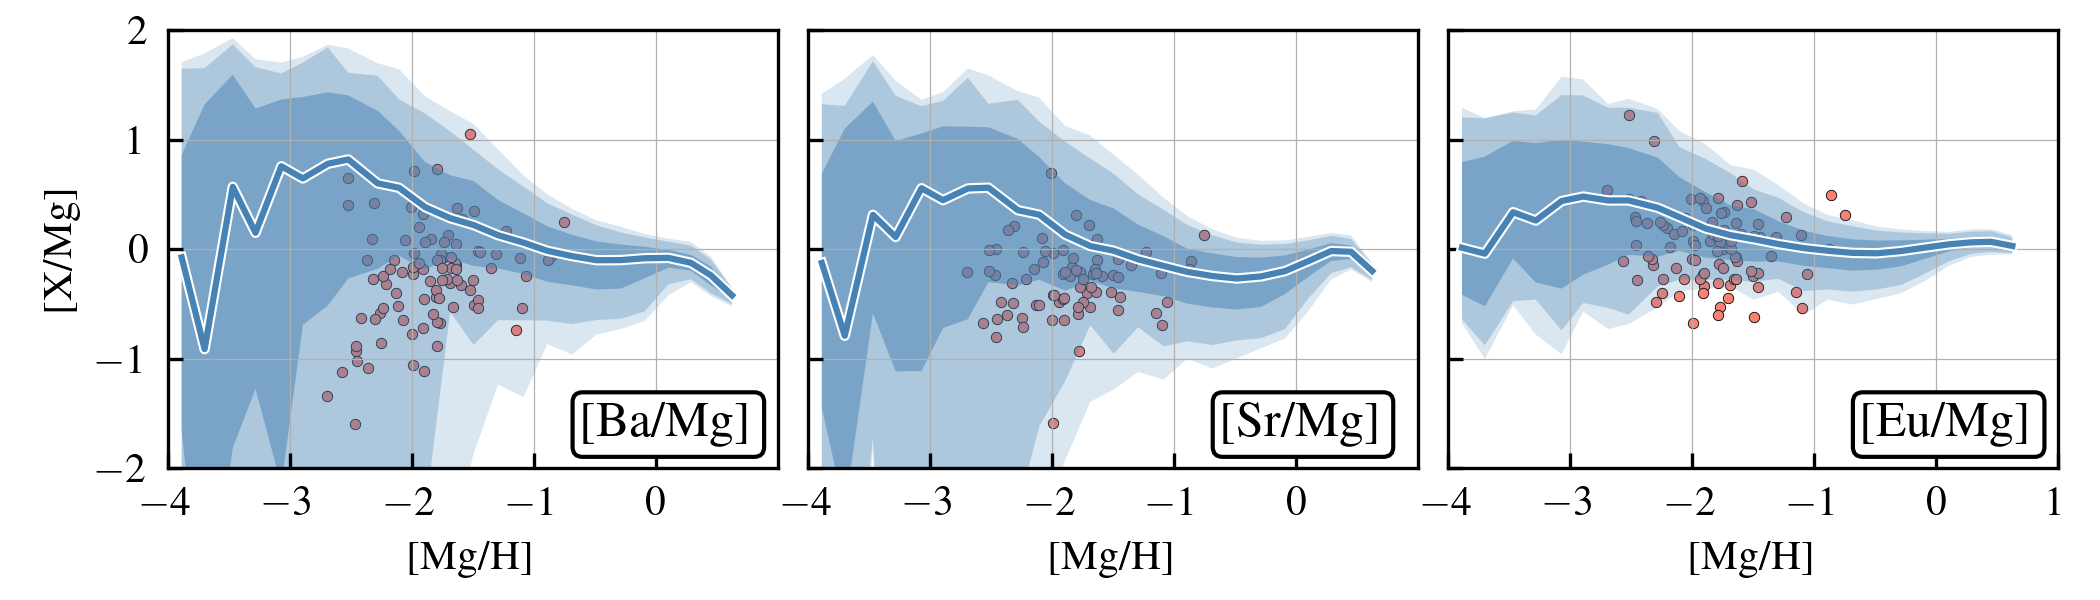
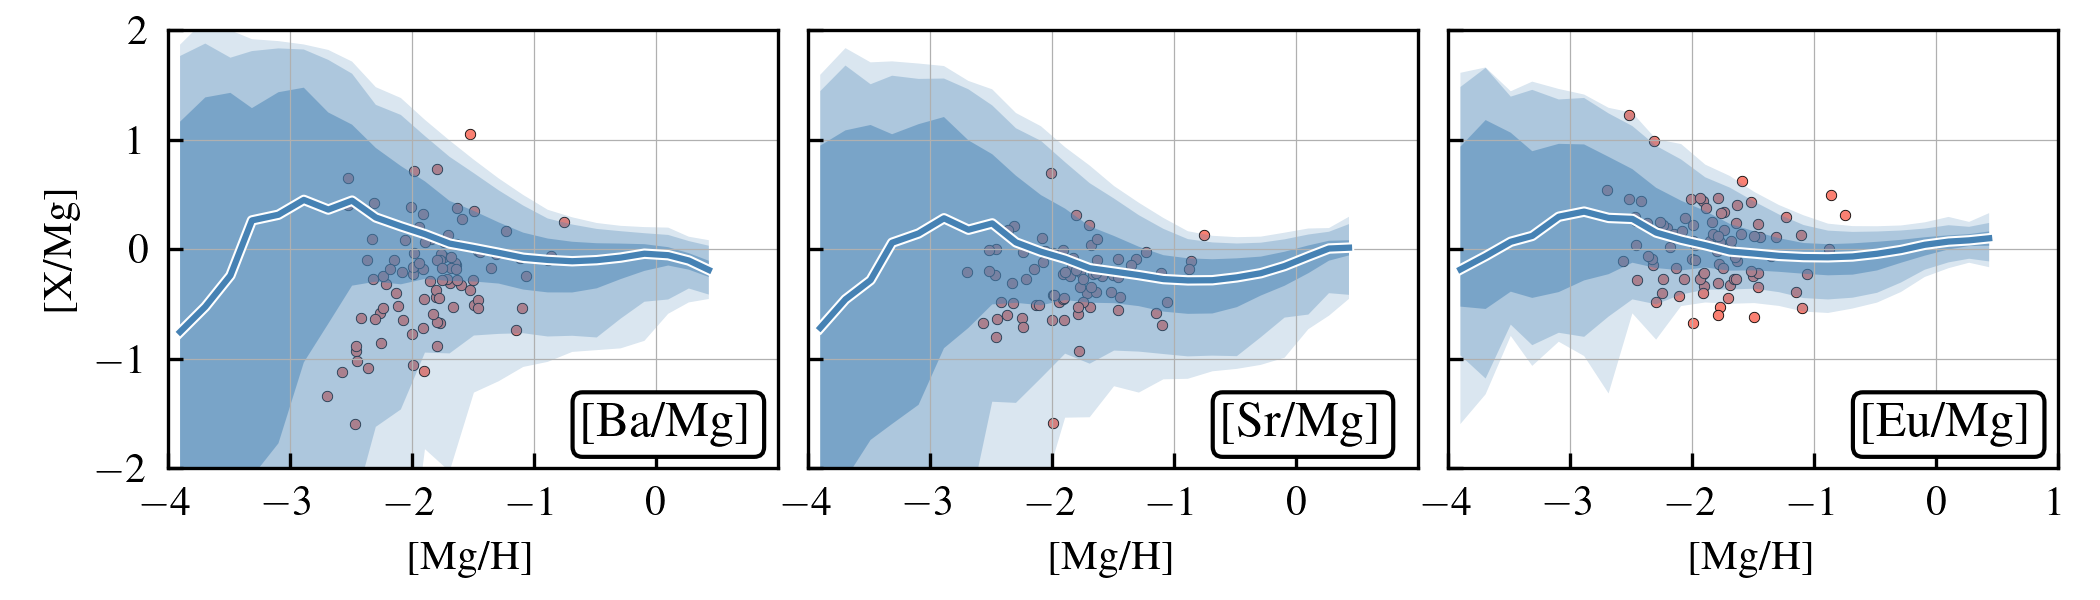
Minor changes, testing pie charts plot

diff --git a/COLIBREPlots/colibre_plots.py b/COLIBREPlots/colibre_plots.py
@@ -3,7 +3,7 @@ Welcome to COLIBRE PLOTS python package, just a plotting pipeline for the COLIBR
 """
 
 from argumentparser import ArgumentParser
-#from plotter.abundance_ratios import plot_abundance_ratios_comparison, plot_abundance_ratios_single_run
+from plotter.abundance_ratios import plot_abundance_ratios_comparison, plot_abundance_ratios_single_run
 from plotter.scatter_analysis_satellites import plot_scatter_of_MW_satellites
 # from plotter.scatter_analysis_MW import plot_scatter_MW_with_radius, plot_stellar_distribution
 # from plotter.scatter_analysis_MW import plot_APOGEE, plot_abundance_ratio_MgFe
@@ -11,7 +11,7 @@ from analysis.post_processing_MW_abundances import make_post_processing_MW
 #from analysis.post_processing_MW_abundances import make_post_processing_MW_gas_abundances
 from analysis.post_processing_satellite_abundances import make_post_processing_satellites
 #from analysis.post_processing_pie_charts import make_post_processing_MW_for_abundance_contribution
-#from plotter.pie_charts import plot_pie_charts
+from plotter.pie_charts import plot_pie_charts
 #from plotter.gas_abundance import plot_gas_abundance_gradient
 from analysis.post_processing_mass_metallicity_relation import make_post_processing_galaxies_metallicities
 from plotter.mass_metallicity_relation import plot_mass_metallicity_relation
@@ -23,10 +23,8 @@ if __name__ == "__main__":
     # plot_gas_abundance_gradient(config_parameters)
 
     # plot_abundance_ratio_MgFe(config_parameters)
-    # make_post_processing_MW(config_parameters)
     # make_post_processing_satellites(config_parameters)
 
-    # plot_abundance_ratios_single_run(config_parameters)
     # plot_abundance_ratios_comparison(config_parameters)
     # plot_abundance_ratio_MgFe(config_parameters)
     # plot_scatter_of_MW_satellites(config_parameters)
@@ -34,8 +32,11 @@ if __name__ == "__main__":
     # plot_stellar_distribution(config_parameters)
     # plot_APOGEE()
 
+    # Let's make Fig. 2 of draft
+    # make_post_processing_MW(config_parameters)
     # make_post_processing_MW_for_abundance_contribution(config_parameters)
-    # plot_pie_charts(config_parameters)
+    plot_pie_charts(config_parameters)
+    # plot_abundance_ratios_single_run(config_parameters)
 
-    make_post_processing_galaxies_metallicities(config_parameters)
-    plot_mass_metallicity_relation(config_parameters)
+    # make_post_processing_galaxies_metallicities(config_parameters)
+    # plot_mass_metallicity_relation(config_parameters)

diff --git a/COLIBREPlots/plotter/pie_charts.py b/COLIBREPlots/plotter/pie_charts.py
@@ -3,7 +3,7 @@ from matplotlib.pylab import rcParams
 import numpy as np
 import h5py
 from simulation.simulation_data import read_simulation
-
+from simulation.utilities import constants
 
 def read_galactic_abundances(sim_info):
 
@@ -54,24 +54,40 @@ def read_galactic_abundances(sim_info):
 
 def plot_pie(ax, element, data):
 
+    print(element)
+
+    low_limit = 1e-8
     HaloIndx = data["HaloIndex"]
     mass_AGB = data[element+"_AGB"]
     mass_SNII = data[element+"_SNII"]
     mass_SNIa = data[element+"_SNIa"]
     total_mass = data[element]
+    mass_Fe = data["Fe"]
+    mass_H = data["H"]
 
-    # unique_HaloIndx = np.unique(HaloIndx)
-    # num_sample = len(unique_HaloIndx)
-    #
-    # mass_frac_AGB = np.zeros(num_sample)
-    # mass_frac_CCSN = np.zeros(num_sample)
-    #
-    # for i in range(num_sample):
-    #     select = np.where(HaloIndx == unique_HaloIndx[i])[0]
-    #     mass_frac_AGB[i] = np.sum(mass_AGB[select]) / np.sum(total_mass[select])
-    #     mass_frac_CCSN[i] = np.sum(mass_SNII[select]) / np.sum(total_mass[select])
-    #
-    # print(np.median(mass_frac_AGB),np.median(mass_frac_CCSN))
+    unique_HaloIndx = np.unique(HaloIndx)
+    num_sample = len(unique_HaloIndx)
+
+    mass_frac_AGB = np.zeros(num_sample)
+    mass_frac_CCSN = np.zeros(num_sample)
+    mass_frac_SNIa = np.zeros(num_sample)
+    FeH_median = np.zeros(num_sample)
+    FeH_mean = np.zeros(num_sample)
+
+    for i in range(num_sample):
+        select = np.where(HaloIndx == unique_HaloIndx[i])[0]
+
+        FeH_stars = np.clip(mass_Fe[select], low_limit, None) / mass_H[select]
+        FeH_stars = np.log10(FeH_stars) - constants.Fe_H_Sun
+        FeH_median[i] = np.median(FeH_stars)
+        FeH_mean[i] = np.mean(FeH_stars)
+
+        mass_frac_AGB[i] = np.sum(mass_AGB[select]) / np.sum(total_mass[select])
+        mass_frac_CCSN[i] = np.sum(mass_SNII[select]) / np.sum(total_mass[select])
+        mass_frac_SNIa[i] = np.sum(mass_SNIa[select]) / np.sum(total_mass[select])
+
+        sum_all = mass_frac_AGB[i] + mass_frac_CCSN[i] + mass_frac_SNIa[i]
+        print(FeH_median[i], FeH_mean[i], mass_frac_AGB[i], mass_frac_CCSN[i], mass_frac_SNIa[i], sum_all)
 
     masses = [np.sum(mass_AGB) / np.sum(total_mass),
               np.sum(mass_SNII) / np.sum(total_mass),

diff --git a/COLIBREPlots/plotter/abundance_ratios.py b/COLIBREPlots/plotter/abundance_ratios.py
@@ -22,18 +22,18 @@ def read_galactic_abundances(sim_info):
         Si_Fe = file["Data/Si_Fe"][:]
         Fe_H = file["Data/Fe_H"][:]
         Ne_Fe = file["Data/Ne_Fe"][:]
-        # Ba_Fe = file["Data/Ba_Fe"][:]
-        # Sr_Fe = file["Data/Sr_Fe"][:]
-        # Eu_Fe = file["Data/Eu_Fe"][:]
+        Ba_Fe = file["Data/Ba_Fe"][:]
+        Sr_Fe = file["Data/Sr_Fe"][:]
+        Eu_Fe = file["Data/Eu_Fe"][:]
 
-    # Mg_H = Mg_Fe + Fe_H
-    # Ba_Mg = Ba_Fe - Mg_Fe
-    # Sr_Mg = Sr_Fe - Mg_Fe
-    # Eu_Mg = Eu_Fe - Mg_Fe
+    Mg_H = Mg_Fe + Fe_H
+    Ba_Mg = Ba_Fe - Mg_Fe
+    Sr_Mg = Sr_Fe - Mg_Fe
+    Eu_Mg = Eu_Fe - Mg_Fe
 
     return {"Fe_H":Fe_H, "C_Fe":C_Fe, "N_Fe":N_Fe, "Mg_Fe":Mg_Fe, "O_Fe":O_Fe,
-            "Si_Fe":Si_Fe, "Ne_Fe":Ne_Fe}#, "Ba_Fe":Ba_Fe, "Sr_Fe":Sr_Fe, "Eu_Fe":Eu_Fe,
-            #"Mg_H":Mg_H, "Ba_Mg":Ba_Mg, "Sr_Mg":Sr_Mg, "Eu_Mg":Eu_Mg}
+            "Si_Fe":Si_Fe, "Ne_Fe":Ne_Fe, "Ba_Fe":Ba_Fe, "Sr_Fe":Sr_Fe, "Eu_Fe":Eu_Fe,
+            "Mg_H":Mg_H, "Ba_Mg":Ba_Mg, "Sr_Mg":Sr_Mg, "Eu_Mg":Eu_Mg}
 
 
 def plot_abundance_ratios_comparison(config_parameters):
